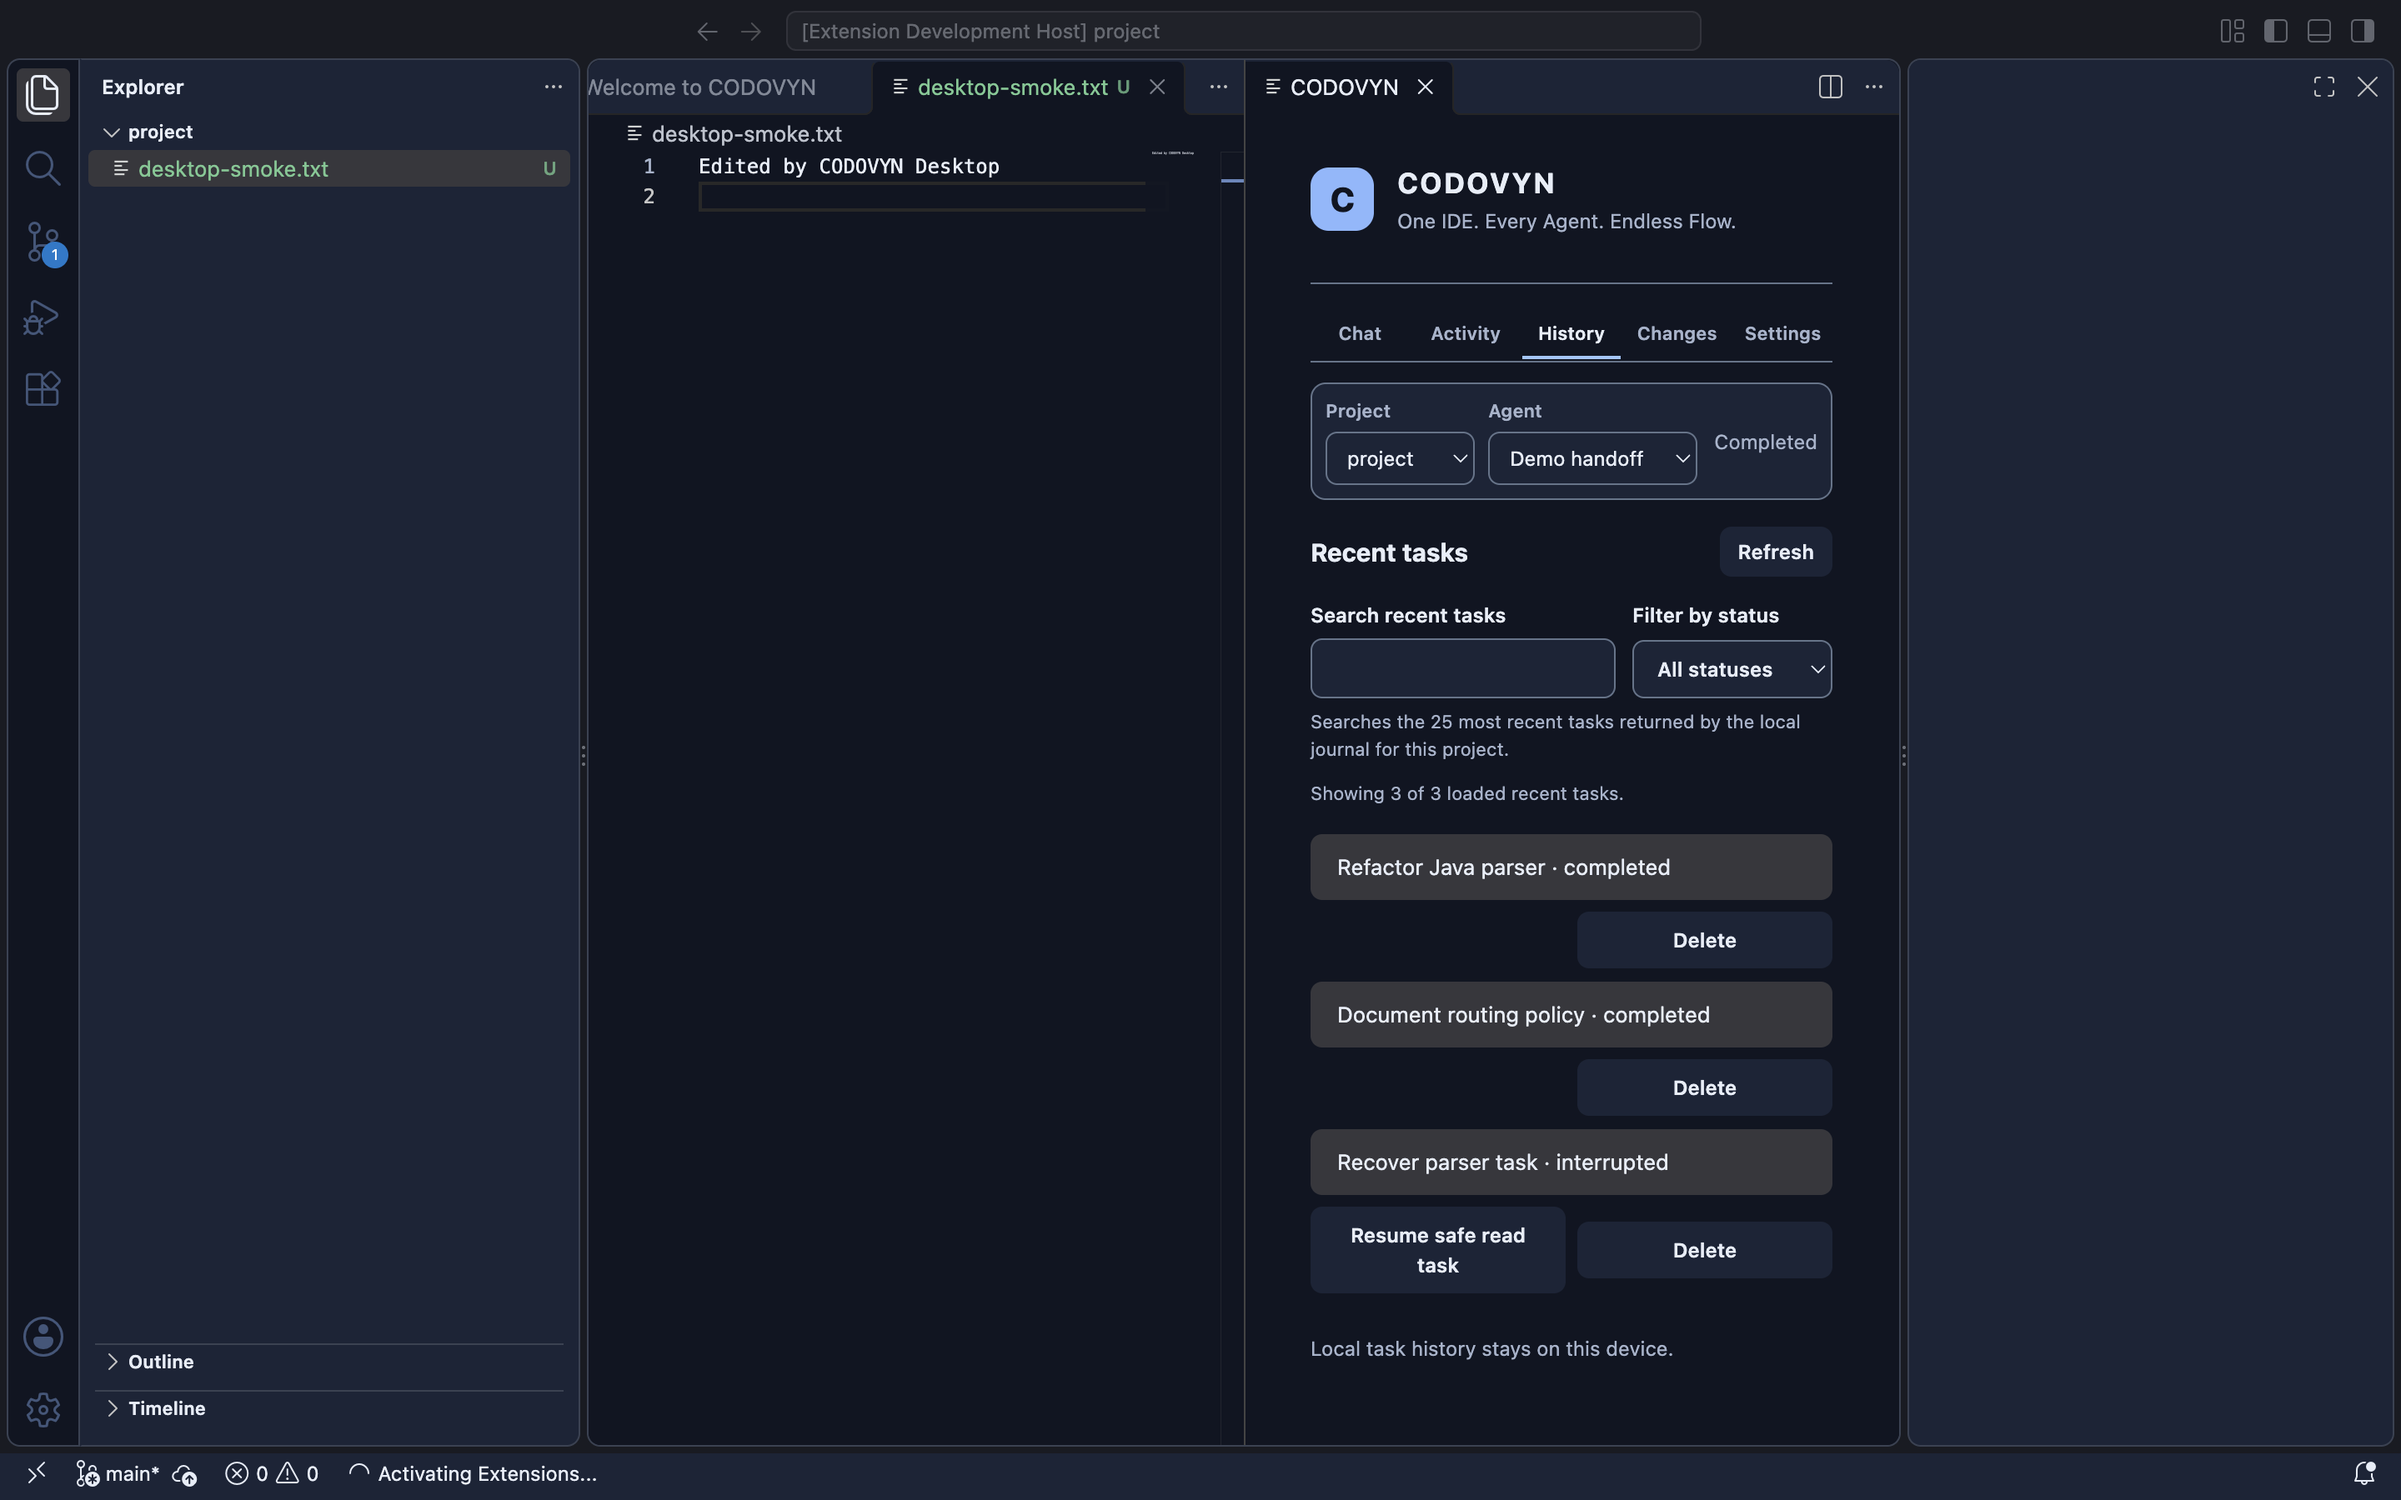
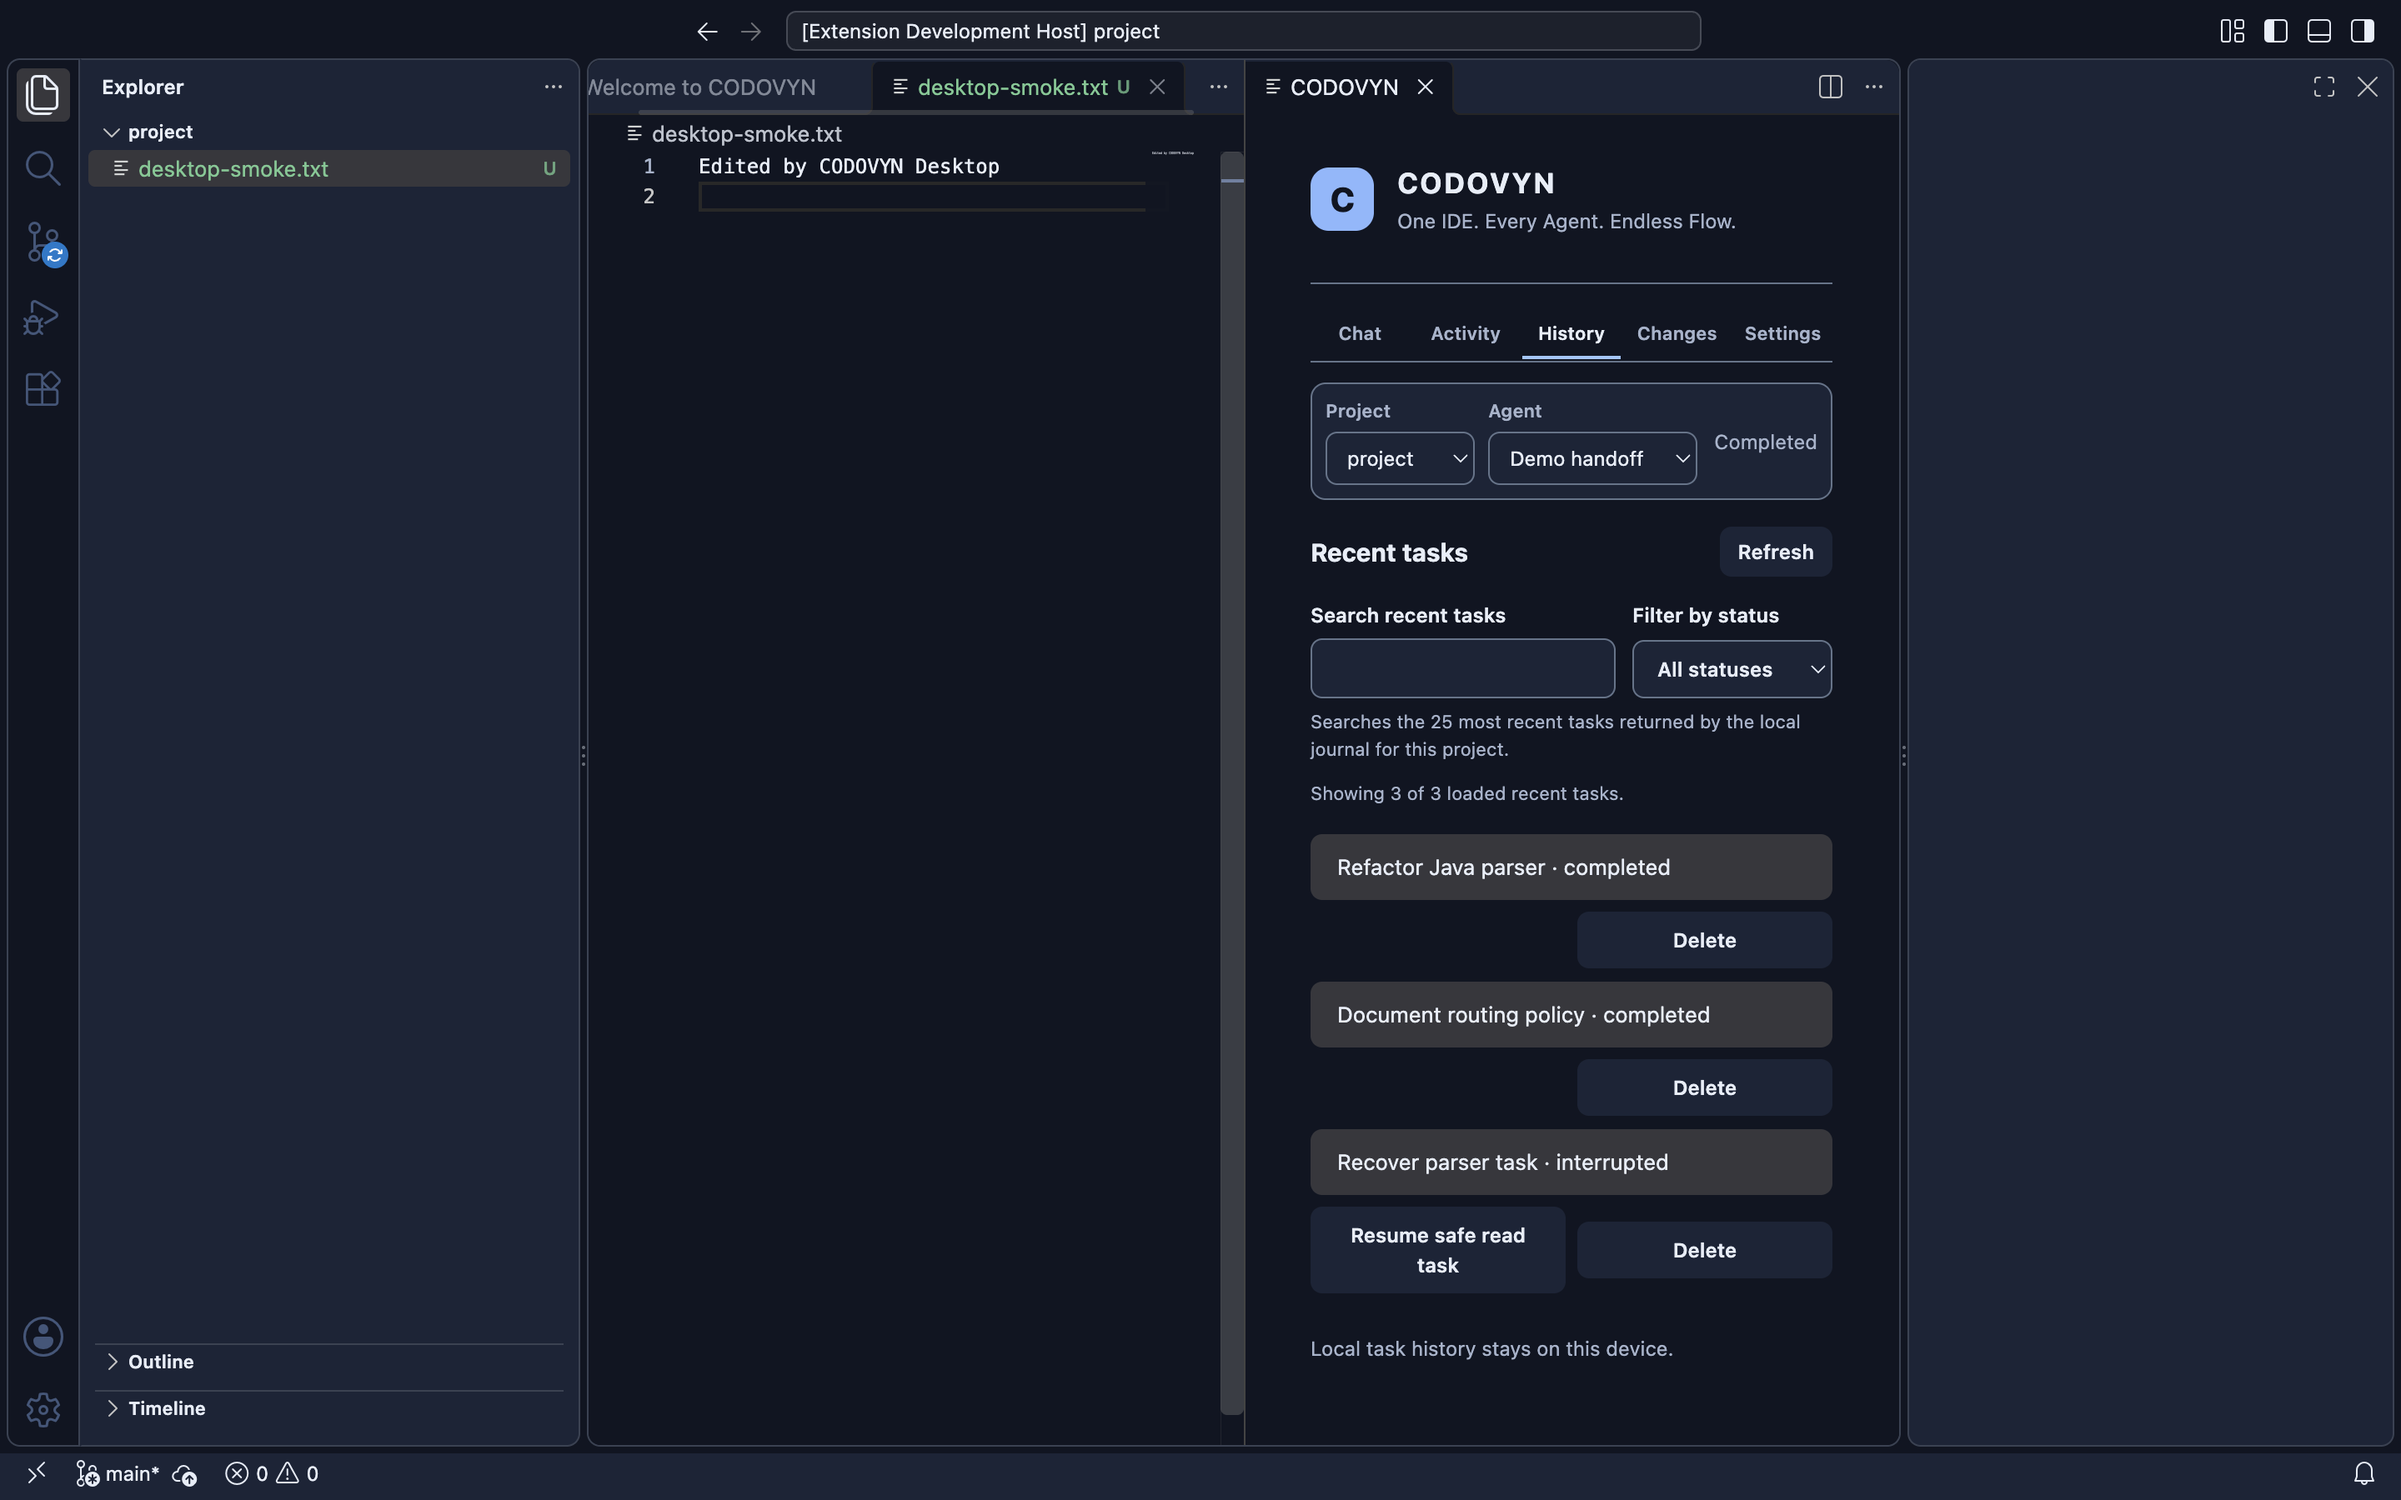
test(workspace): verify native view state persistence

diff --git a/scripts/desktop-routing-ui-smoke.js b/scripts/desktop-routing-ui-smoke.js
@@ -165,6 +165,8 @@ try {
   await evaluate("document.querySelector('[data-workspace-view=chat]').dispatchEvent(new KeyboardEvent('keydown', { key: 'End', bubbles: true }))");
   assert.equal(await evaluate("document.querySelector('[data-workspace-view=settings]').getAttribute('aria-selected')"), 'true',
     'End moves to Settings.');
+  assert.equal(await evaluate("vscode.getState()?.activeWorkspaceView"), 'settings',
+    'The selected destination is persisted through the host-supported webview state API.');
   const tabVisibility = await evaluate("[...document.querySelectorAll('[role=tabpanel]')].map(panel => ({ id: panel.id, hidden: panel.hidden, labelled: panel.getAttribute('aria-labelledby') }))");
   assert.equal(tabVisibility.filter(panel => !panel.hidden).length, 1,
     'Switching destinations leaves one visible panel and keeps every panel labelled.');
